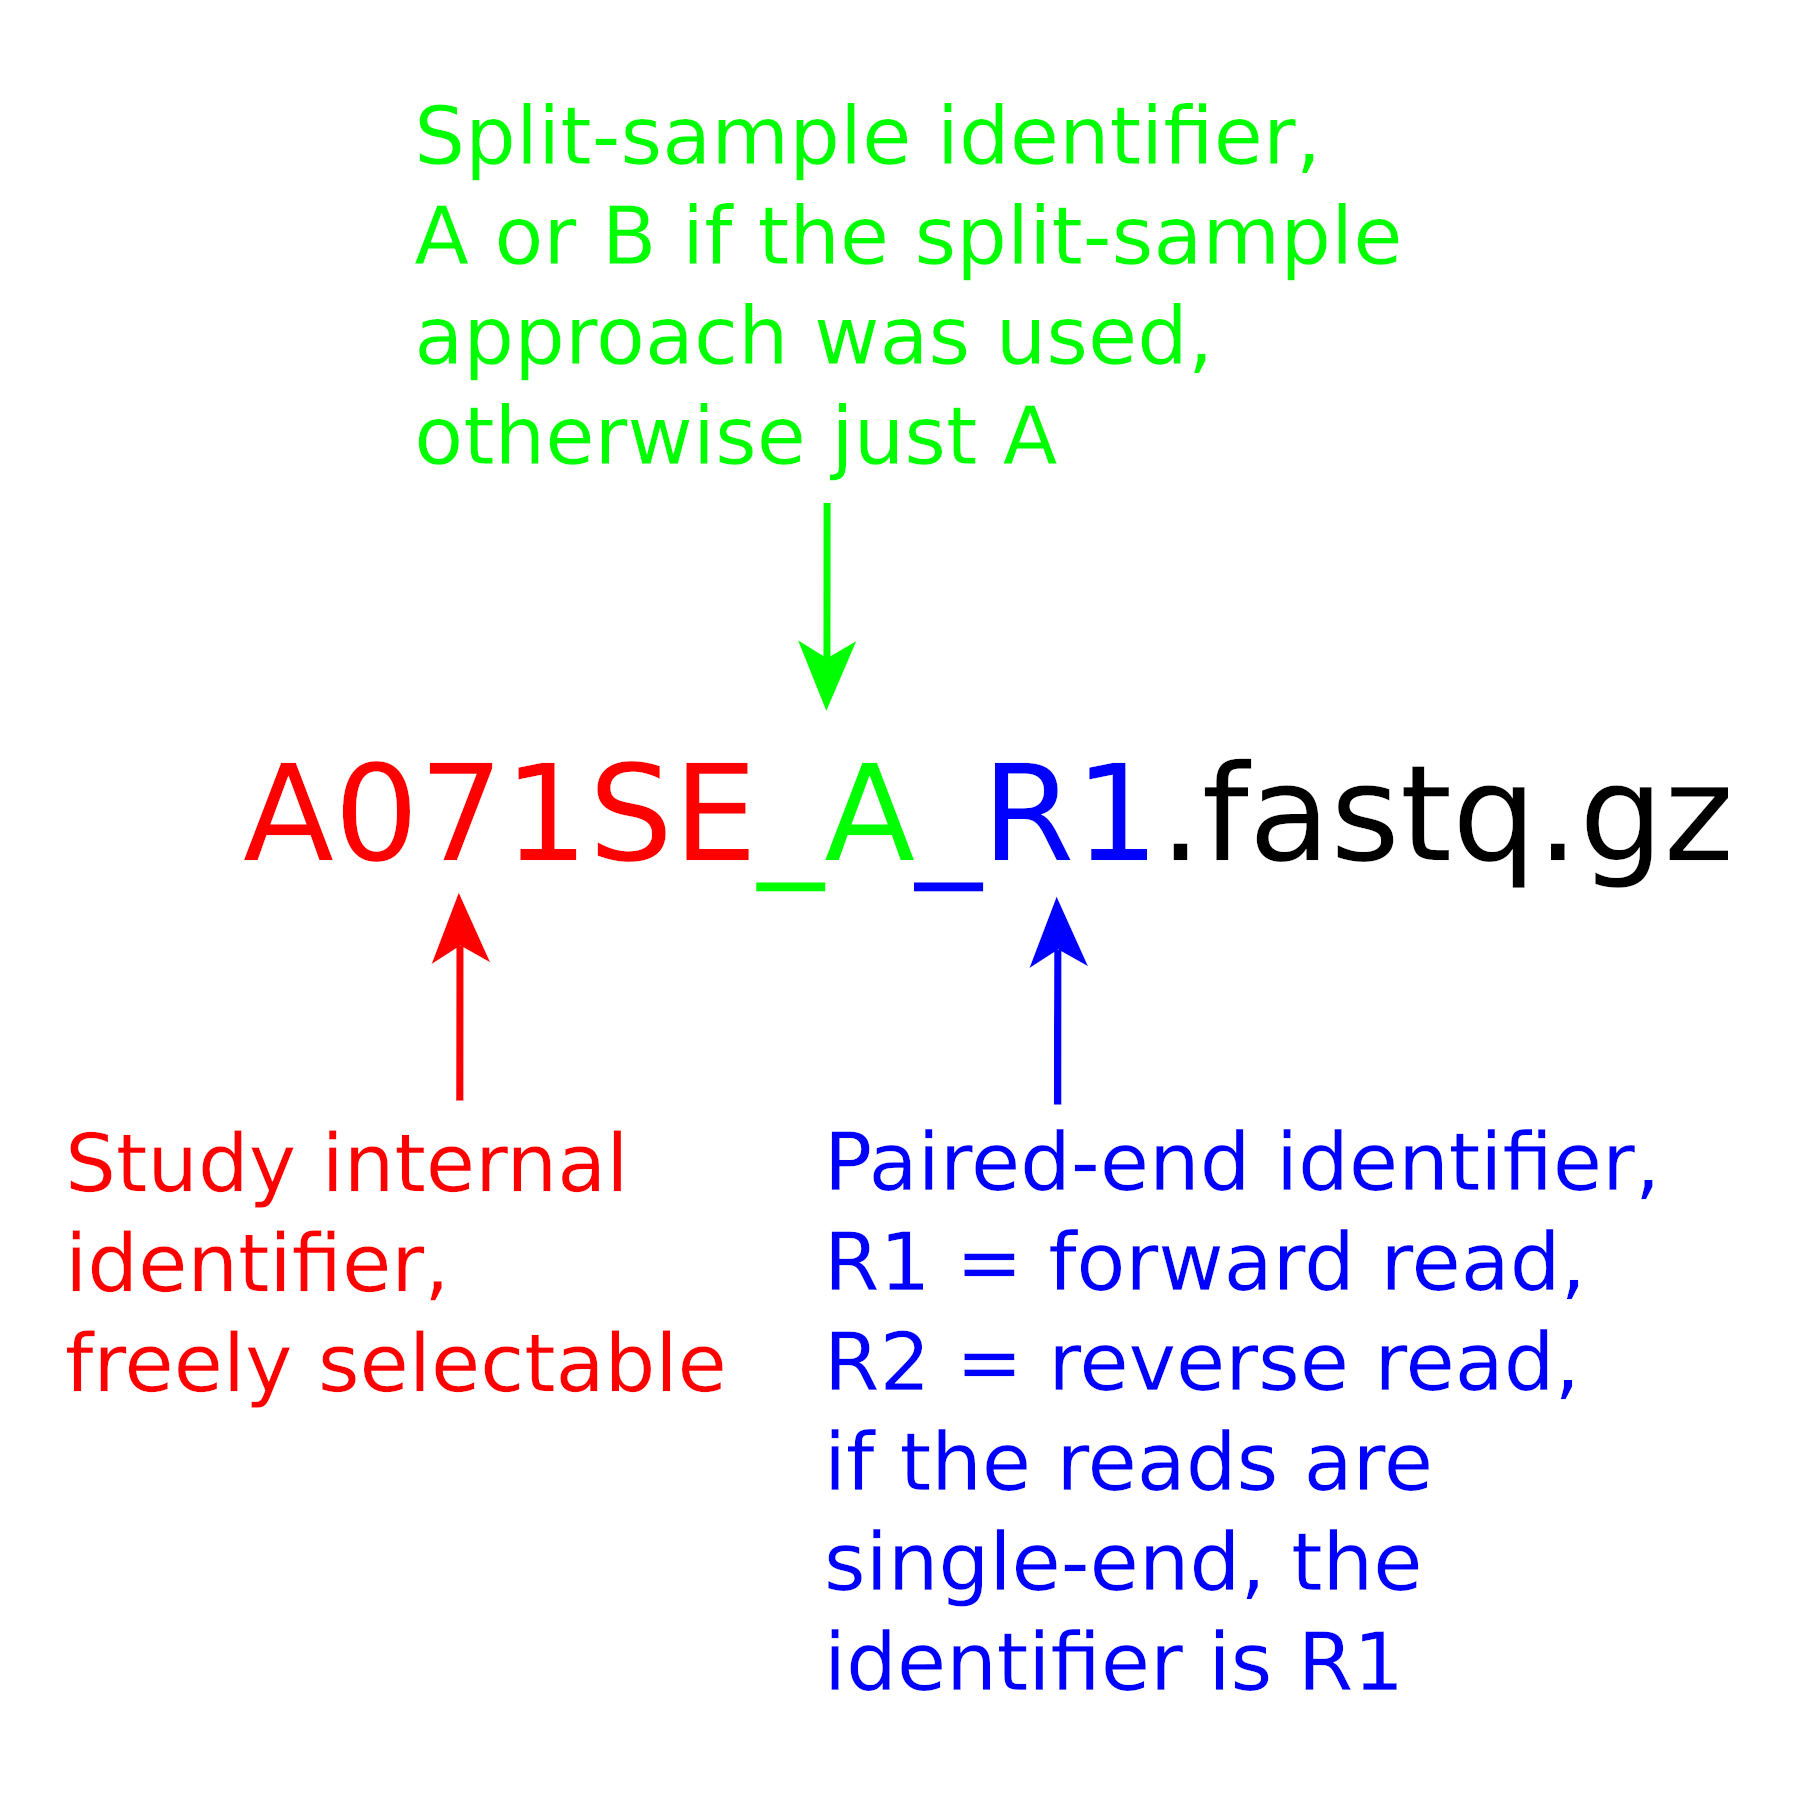
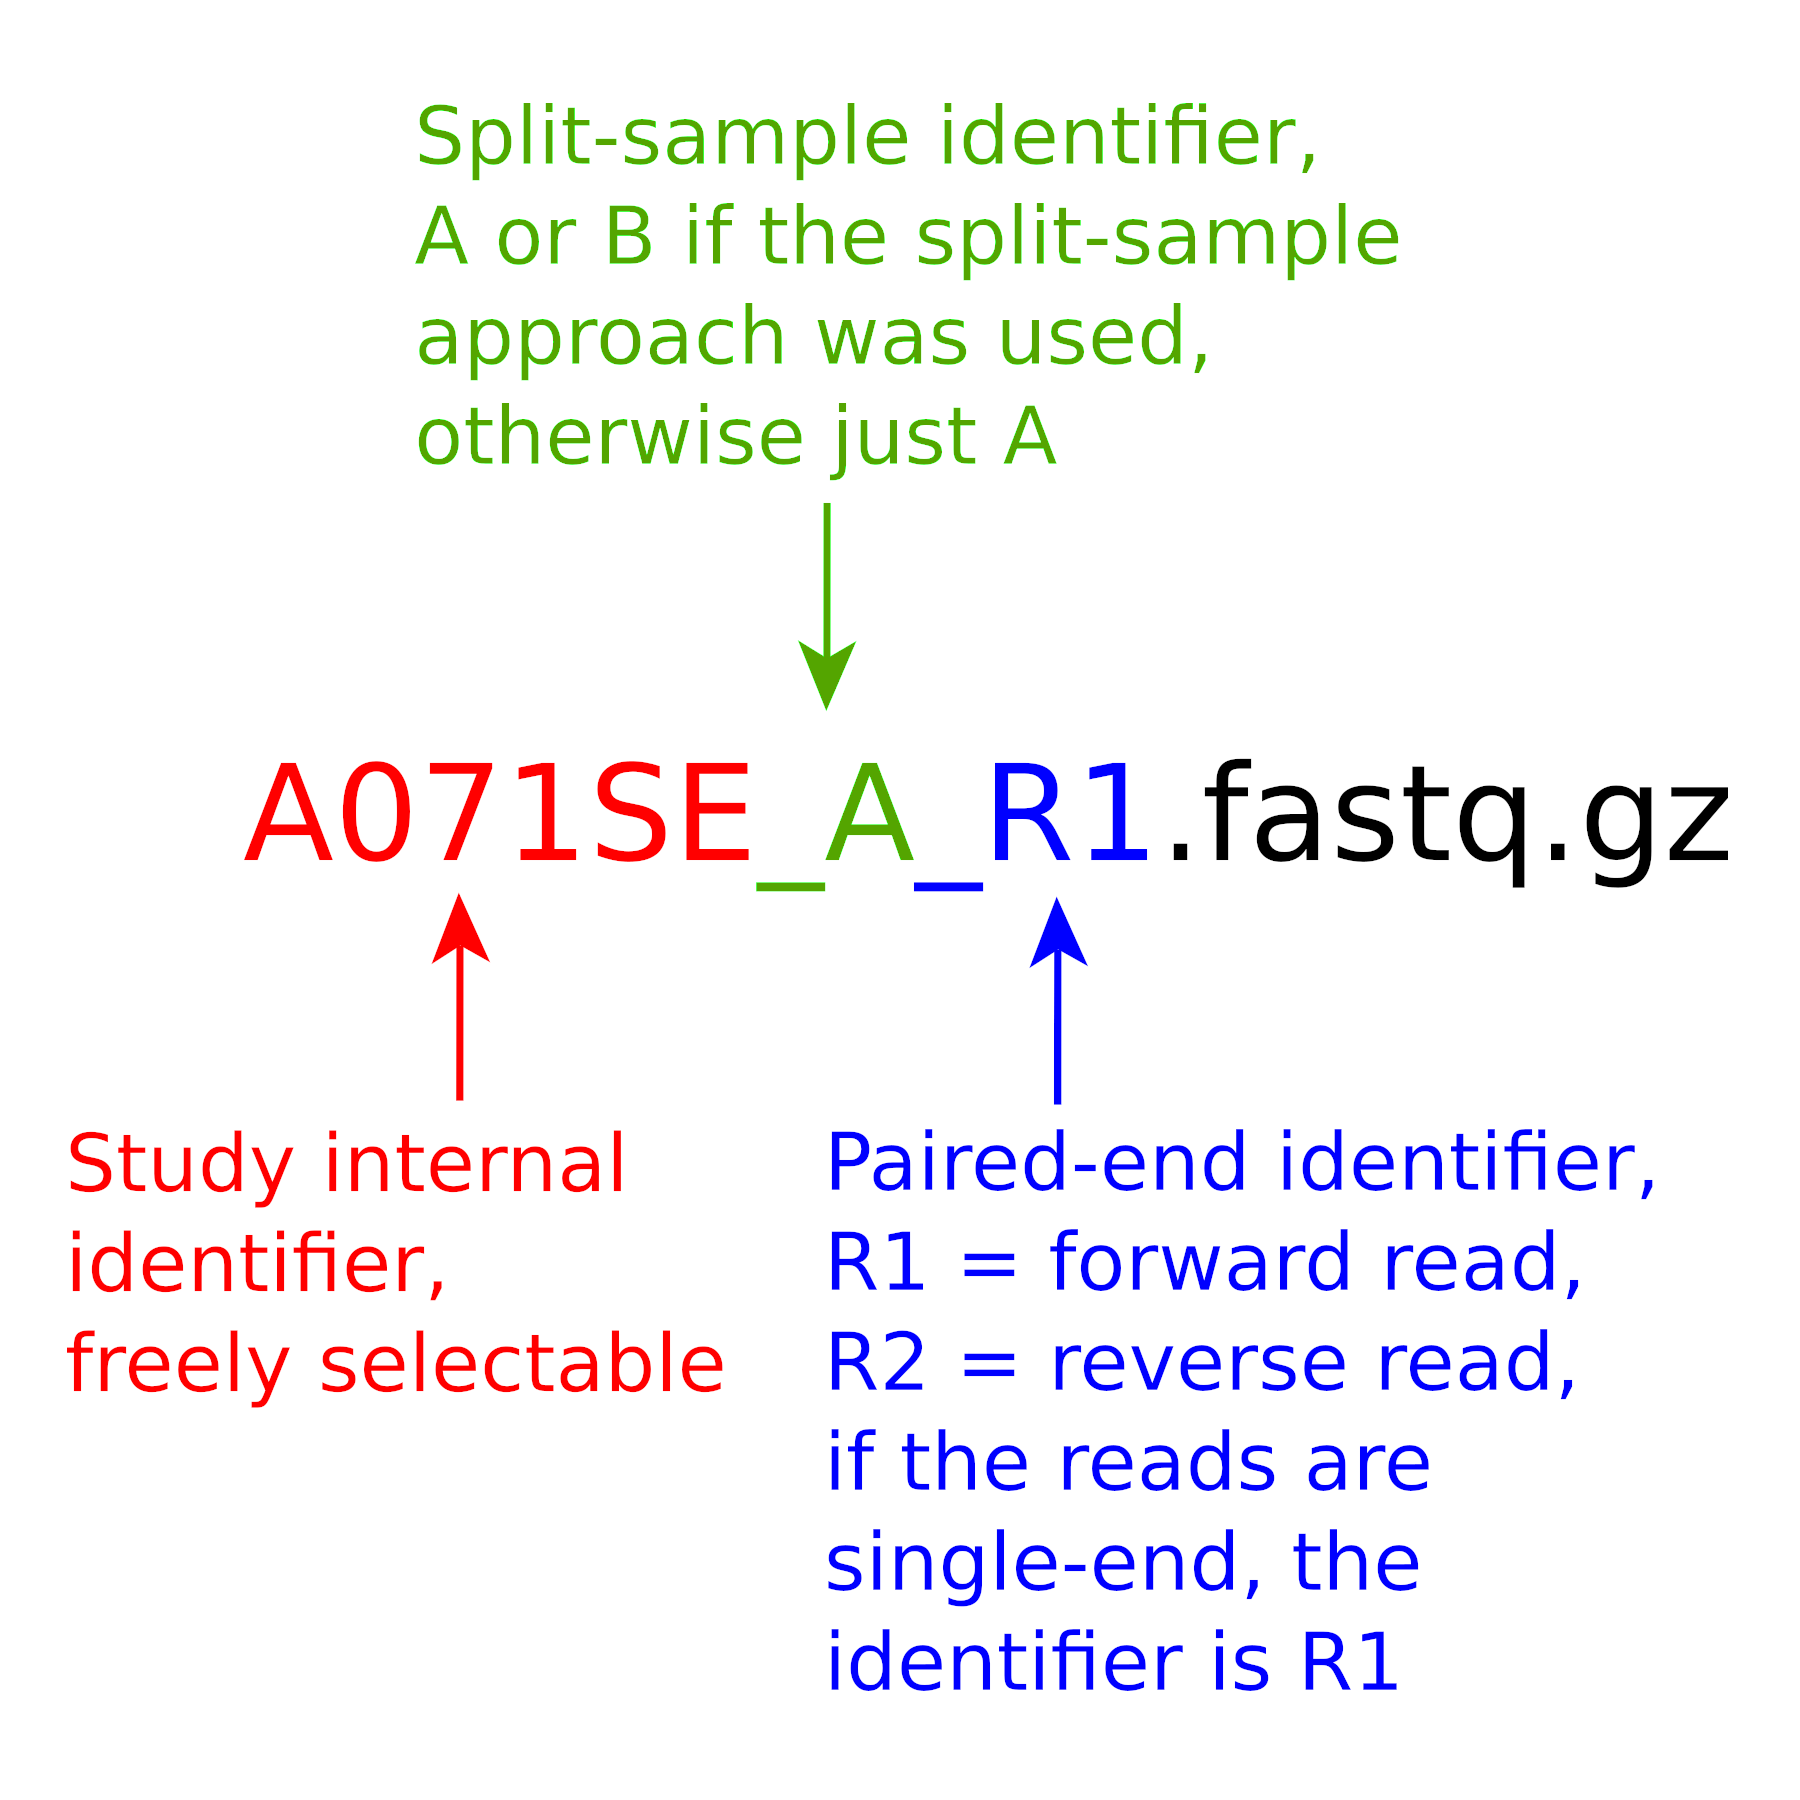
Update

diff --git a/README.md b/README.md
@@ -5,6 +5,9 @@
 ---
 Natrix is an open-source bioinformatics pipeline for the preprocessing of long and short raw sequencing data. The need for a scalable, reproducible workflow for the processing of environmental amplicon data led to the development of Natrix. It is divided into quality assessment, dereplication, chimera detection, split-sample merging, ASV or OTU generation, and taxonomic assessment. The pipeline is written in [Snakemake](https://snakemake.readthedocs.io) (Köster and Rahmann 2018), a workflow management engine for the development of data analysis workflows. Snakemake ensures the reproducibility of a workflow by automatically deploying dependencies of workflow steps (rules) and scales seamlessly to different computing environments such as servers, computer clusters, or cloud services. While Natrix was only tested with 16S and 18S amplicon data, it should also work for other kinds of sequencing data. The pipeline contains separate rules for each step of the pipeline, and each rule that has additional dependencies has a separate [Conda](https://conda.io/) environment that will be automatically created when starting the pipeline for the first time. The encapsulation of rules and their dependencies allows for hassle-free sharing of rules between workflows.
 
+---
+**To use the latest functions and updates, it is recommended to use the dev-branch of Natrix2**. The dev-branch contains the latest developments and patches that are not yet available in the main-branch. Users who want to stay up to date and experiment with the latest features should use the dev-branch regularly.
+
 ![DAG of an example workflow](documentation/images/natrix_and_update_1.png)
 **Fig. 1**: DAG of the Natrix2 workflow: Schematic representation of the Natrix2 workflow. The processing of two split samples using AmpliconDuo is depicted. The color scheme represents the main steps, dashed lines outline the OTU variant, and dotted lines outline the ASV variant of the workflow. Stars depict updates to the original Natrix workflow. Details on the ONT part are depicted in Fig. 2.
 
@@ -21,8 +24,8 @@ Natrix is an open-source bioinformatics pipeline for the preprocessing of long a
 7. [Steps of the Pipeline](#steps-of-the-pipeline)
 8. [Example primertable](#example-primertable)
 9. [Configfile](#configfile)
-10. [Use dev-branch](#use-dev-branch)
-11. [References](#references)
+10. [References](#references)
+11. [Citation](#citation)
 
 # Dependencies
 * [Conda](https://conda.io/en/latest/index.html)
@@ -653,10 +656,6 @@ Below are the explanations for the configfile `project.yaml` entries:
 
 <p><b>Table 4</b>: Configuration options</p>
 
-# Use dev-branch
-
-To use the latest functions and updates, it is recommended to use the dev-branch of Natrix2. The dev-branch contains the latest developments and patches that are not yet available in the main-branch. Users who want to stay up to date and experiment with the latest features should use the dev-branch regularly.
-
 # References
 
 * Altschul, Stephen F. et al. (1990). “Basic local alignment search tool”. In: *Journal of Molecular Biology 215(3)*, pp. 403–410.
@@ -676,3 +675,19 @@ To use the latest functions and updates, it is recommended to use the dev-branch
 * Rognes, Torbjørn et al. (2016). “VSEARCH: a versatile open source tool for metagenomics.” In: *PeerJ Preprints*. doi: "10.7287/peerj.preprints.2409v1".
 * Schmieder, Robert und Robert A. Edwards (2011). “Quality control and preprocessing of metagenomic datasets.” In: *Bioinformatics*, 27(6), pp. 863–864.
 * Abarenkov K, Nilsson RH, Larsson K-H, Taylor AFS, May TW, Frøslev TG, Pawlowska J, Lindahl B, Põldmaa K, Truong C, Vu D, Hosoya T, Niskanen T, Piirmann T, Ivanov F, Zirk A, Peterson M, Cheeke TE, Ishigami Y, Jansson AT, Jeppesen TS, Kristiansson E, Mikryukov V, Miller JT, Oono R, Ossandon FJ, Paupério J, Saar I, Schigel D, Suija A, Tedersoo L, Kõljalg U. 2023. The UNITE database for molecular identification and taxonomic communication of fungi and other eukaryotes: sequences, taxa and classifications reconsidered. *Nucleic Acids Research*, doi: "10.1093/nar/gkad1039".
+
+# Citation
+
+**Natrix2 is based on the original [Natrix](https://github.com/MW55/Natrix) pipeline — if you use this workflow, please cite**:
+
+**Natrix2**  
+Natrix2 – Improved amplicon workflow with novel Oxford Nanopore Technologies support and enhancements in clustering, classification and taxonomic databases.  
+Deep, A.; Bludau, D.; Welzel, M.; Clemens, S.; Heider, D.; Boenigk, J.; and Beisser, D.  
+Metabarcoding and Metagenomics, 7: e109389. Oct 2023.  
+[https://mbmg.pensoft.net/article/109389/](https://mbmg.pensoft.net/article/109389/)
+
+**Natrix**  
+Natrix: a Snakemake-based workflow for processing, clustering, and taxonomically assigning amplicon sequencing reads.  
+Welzel, M.; Lange, A.; Heider, D.; Schwarz, M.; Freisleben, B.; Jensen, M.; Boenigk, J.; and Beisser, D.  
+BMC Bioinformatics, 21(1). Nov 2020.  
+[https://bmcbioinformatics.biomedcentral.com/articles/10.1186/s12859-020-03852-4](https://bmcbioinformatics.biomedcentral.com/articles/10.1186/s12859-020-03852-4)

diff --git a/CHANGELOG.md b/CHANGELOG.md
@@ -4,6 +4,11 @@
 This document records all notable changes to Natrix2 project.  
 **Note**: Use the **dev** branch for the latest updates and features.
 
+## [2025-07-14]
+- Update text color in filename.png to improve readability
+- Add citation section to README.md
+- Add CITATION.cff file for GitHub citation support
+
 ## [2025-06-13]
 - Update README.md with the latest usage instructions and options
 - Update docker_manual.tex and docker_manual.pdf
